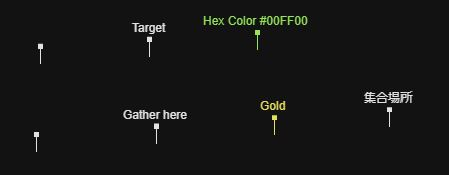
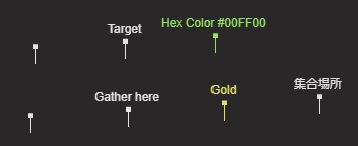
region guide

diff --git a/src/components/pages/mapEdit/3d/WorldMap.tsx b/src/components/pages/mapEdit/3d/WorldMap.tsx
@@ -17,10 +17,11 @@ interface IProps {
     systemName: string;
     size: number;
     children: ReactNode;
+    empty?: boolean;
 }
 
 export const WorldMap = (props: IProps) => {
-    const { systemName, size, children } = props;
+    const { systemName, size, children, empty } = props;
     const gridSize = translateSizeToGrid(size);
     const [debug, setDebug] = useState<boolean>(false);
 
@@ -50,17 +51,22 @@ export const WorldMap = (props: IProps) => {
                         onDoubleClick={() => setDebug(x => !x)}
                     >
                         <color attach="background" args={['#292828']} />
-                        <StarsBackground starCount={200} starSize={3} zOffset={300} />
-                        <StarsBackground starCount={1000} starSize={0.2} zOffset={500} />
-                        <MapBorders />
-                        <MapGrid />
+
                         <ambientLight />
                         <pointLight position={[0, 0, 10]} />
                         {debug && (
                             <axesHelper args={[10]} position={[0, 0, getZ('axesHelper')]} />
                         )}
-                        <Sun />
-                        <WorldLabel worldName={systemName} />
+                        {empty !== true && (
+                            <>
+                                <StarsBackground starCount={200} starSize={3} zOffset={300} />
+                                <StarsBackground starCount={1000} starSize={0.2} zOffset={500} />
+                                <MapBorders />
+                                <MapGrid />
+                                <Sun />
+                                <WorldLabel worldName={systemName} />
+                            </>
+                        )}
                         {children}
                         <CameraControls />
                     </Canvas>

diff --git a/src/components/pages/mapEdit/examples/RegionExample.tsx b/src/components/pages/mapEdit/examples/RegionExample.tsx
@@ -4,23 +4,21 @@ import { useMapContent } from '../hooks/useMapContent';
 
 const input = `
     $region
-    (1000,5000)(0,5000)(6000,1000)(1000,6000) #R 1 My Union
-    (2000,5000)(1000,5000)(9000,6000)(6000,1000) #D 2 My Union
-    (3000,5000)(2000,5000)(4000,9000)(9000,6000) #c00FF00 3 My Union
-    (4000,5000)(3000,5000)(1000,4000)(4000,9000) #cFF00FF 4 My Union
+    (4653,3802)(3321,2851)(5610,3101)(2838,4696) #c87372C 7 2nd Thornbird Squad
+    (4927,4483)(4653,6087)(4324,5779)(5398,3401) #c694226 8 Icarus's Energy Dept.
 
     $marker
-    (1000,5000) Marks inner radius
-    (0,5000) Marks outer radius
-    (6000,1000) Marks start angle
-    (1000,6000) Marks end angle
+    (4653,3802) Inner radius
+    (3321,2851) Outer radius
+    (5610,3101) Start angle
+    (2838,4696) End angle
 `;
 
 export const RegionExample = () => {
     const { mapContent } = useMapContent(input);
 
     return (
-        <WorldMap systemName="Example Star System" size={10000}>
+        <WorldMap systemName="Example Star System" size={9000} empty={true}>
             {mapContent && (
                 <MapContent mapContent={mapContent} />
             )}

diff --git a/src/components/pages/mapEdit/utils/spriteUtils.ts b/src/components/pages/mapEdit/utils/spriteUtils.ts
@@ -31,7 +31,7 @@ export function createTextImage(args: ITextOptions) {
     lines.forEach((line: string) => {
         ctx.font = fontStr;
         ctx.fillStyle = color;
-        ctx.fillText(line, 0, offsetY + (lineHeight * 0.1) + (lineHeight * 0.8));
+        ctx.fillText(line, 0, offsetY + (lineHeight * 0.8));
         offsetY += (lineHeight + lineSpacing);
     });
 

diff --git a/src/components/pages/mapEdit/examples/MarkerExample.tsx b/src/components/pages/mapEdit/examples/MarkerExample.tsx
@@ -17,7 +17,7 @@ export const MarkerExample = () => {
     const { mapContent } = useMapContent(input);
 
     return (
-        <WorldMap systemName="Example Star System" size={10000}>
+        <WorldMap systemName="Example Star System" size={9000} empty={true}>
             {mapContent && (
                 <MapContent mapContent={mapContent} />
             )}

diff --git a/guide/map_builder_en.md b/guide/map_builder_en.md
@@ -4,13 +4,11 @@ The map builder uses a similar syntax to the in-game chat and mail. This allows 
 
 ## Marker
 
-![marker example](markerExample.jpg)
-
 Syntax:
 
 ```
 $marker
-(x,y) [#<color>] [<label>]
+<point> [<color>] [<label>]
 ```
 
 You can place multiple markers after the `$marker` keyword. Each marker needs to be a new line. Colors and labels are optional. 
@@ -18,6 +16,8 @@ You can place multiple markers after the `$marker` keyword. Each marker needs to
 「`$marker`」キーワードの後に複数のマーカーを配置できます。各マーカーは新しい行に指定する必要があります。オプションで色とラベルが指定できます。
 
 Example:
+
+![marker example](markerExample.jpg)
 
 ```
 $marker
@@ -38,7 +38,7 @@ Syntax:
 
 ```
 $region
-(x,y)(x,y)(x,y)(x,y) #<color> <number> [<organization>]
+<point><point><point><point> <color> <number> [<organization>]
 ```
 
 You can place multiple regions after the `$region` keyword. Each region needs to be a new line and requires four coordinates, a background color and a region number. The "organization" label is optional.
@@ -49,27 +49,48 @@ Coordinates need to be in the following order:
 - a point to mark the start angle
 - a point to mark the end angle
 
-(choose start and end in clock-wise direction)
+These coordinates do not necessarily have to touch the region area. For example, you can use the same coordinates for all regions that share the same radius.
+
+これらの座標はかならずしも区域に接する必要はありません。同じ半径を共有する区域であれば座標も共有できます。
 
 Example:
 
+![region example](regionExample.jpg)
+
 ```
-(1000,5000)(0,5000)(6000,1000)(1000,6000) #cFF00FF 1 The ruling union
-(2000,5000)(1000,5000)(9000,6000)(6000,1000) #cFF00FF 2 Some big alliance
+$region
+(4653,3802)(3321,2851)(5610,3101)(2838,4696) #c87372C 7 2nd Thornbird Squad
+(4927,4483)(4653,6087)(4324,5779)(5398,3401) #c694226 8 Icarus's Energy Dept.
 ```
 
 ## Colors
 
-```
-#c	Hex code color (i.e. #cFF00FF)
-#B	Blue
-#D	Gold
-#G	Green
-#K	Black
-#O	Orange
-#P	Pink
-#R	Red
-#U	Purple
-#W	White
-#Y	Yellow
-```
+Chat colors:
+
+<div style="display:inline-flex;gap:8px;background-color:#292828;margin-bottom:8px">
+<div style="color:red;">#R</div>
+<div style="color:blue;">#B</div>
+<div style="color:gold;">#D</div>
+<div style="color:green;">#G</div>
+<div style="color:black;">#K</div>
+<div style="color:orange;">#O</div>
+<div style="color:pink;">#P</div>
+<div style="color:purple;">#U</div>
+<div style="color:white;">#W</div>
+<div style="color:yellow;">#Y</div>
+<div style="color:white;">#c&lt;hex color&gt;</div>
+</div>
+
+Example region colors:
+
+<div style="display:inline-flex;gap:4px;color:white;margin-bottom:8px">
+<div style="background-color:#87372C;">#c87372C</div>
+<div style="background-color:#873E2C;">#c873E2C</div>
+<div style="background-color:#985036;">#c985036</div>
+<div style="background-color:#694226;">#c694226</div>
+<div style="background-color:#625828;">#c625828</div>
+</div>
+
+(actual region colors have an alpha value added based on zoom level)
+
+（実際の区域カラーにはズームレベルによってアルファ値が設定されます）
